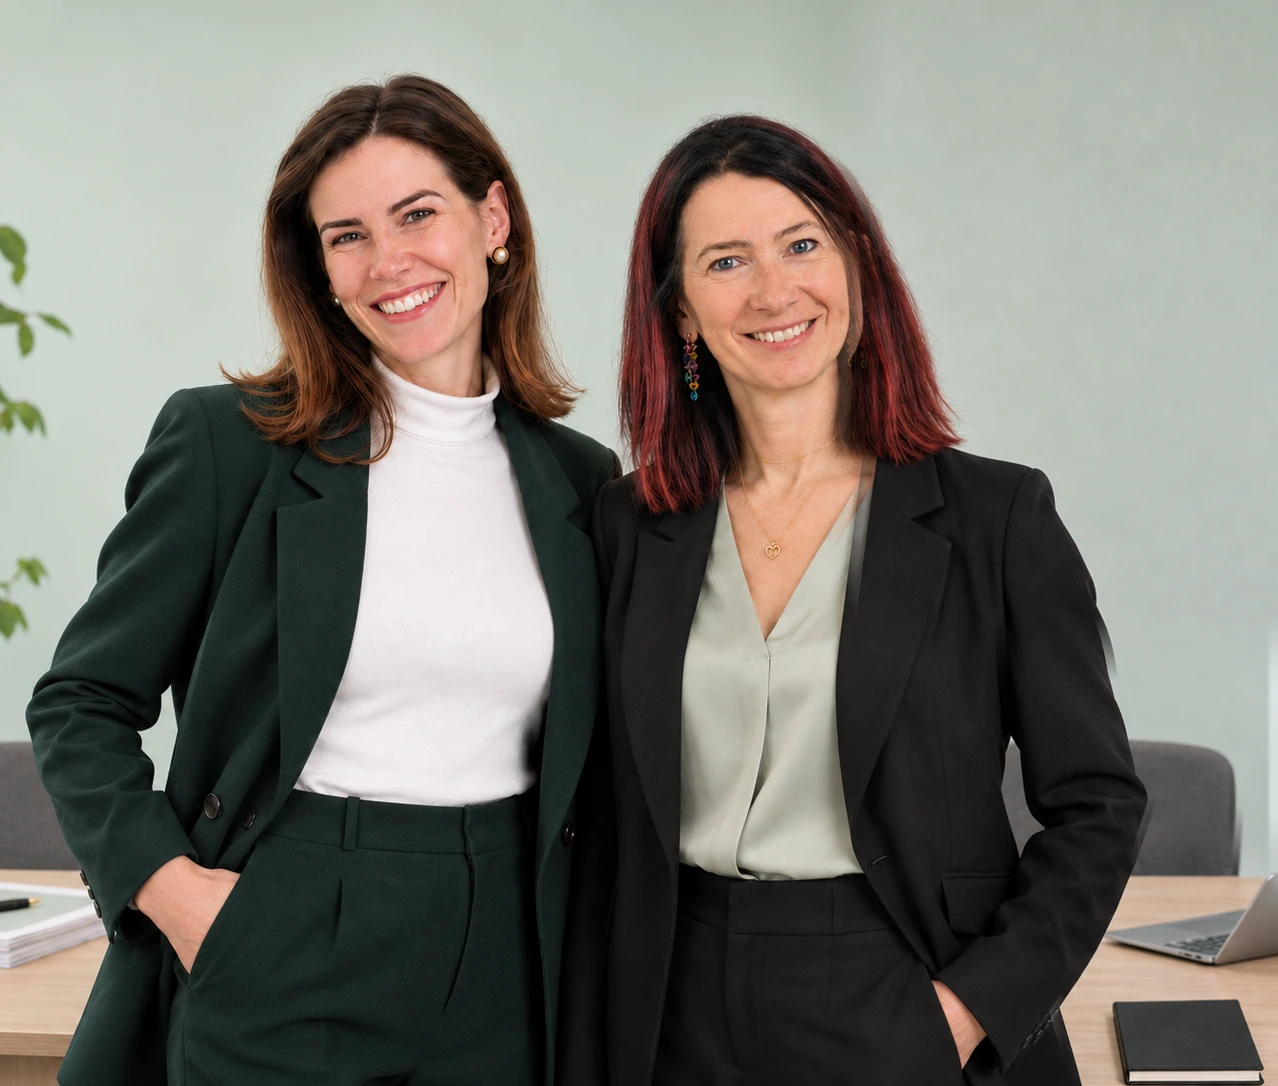
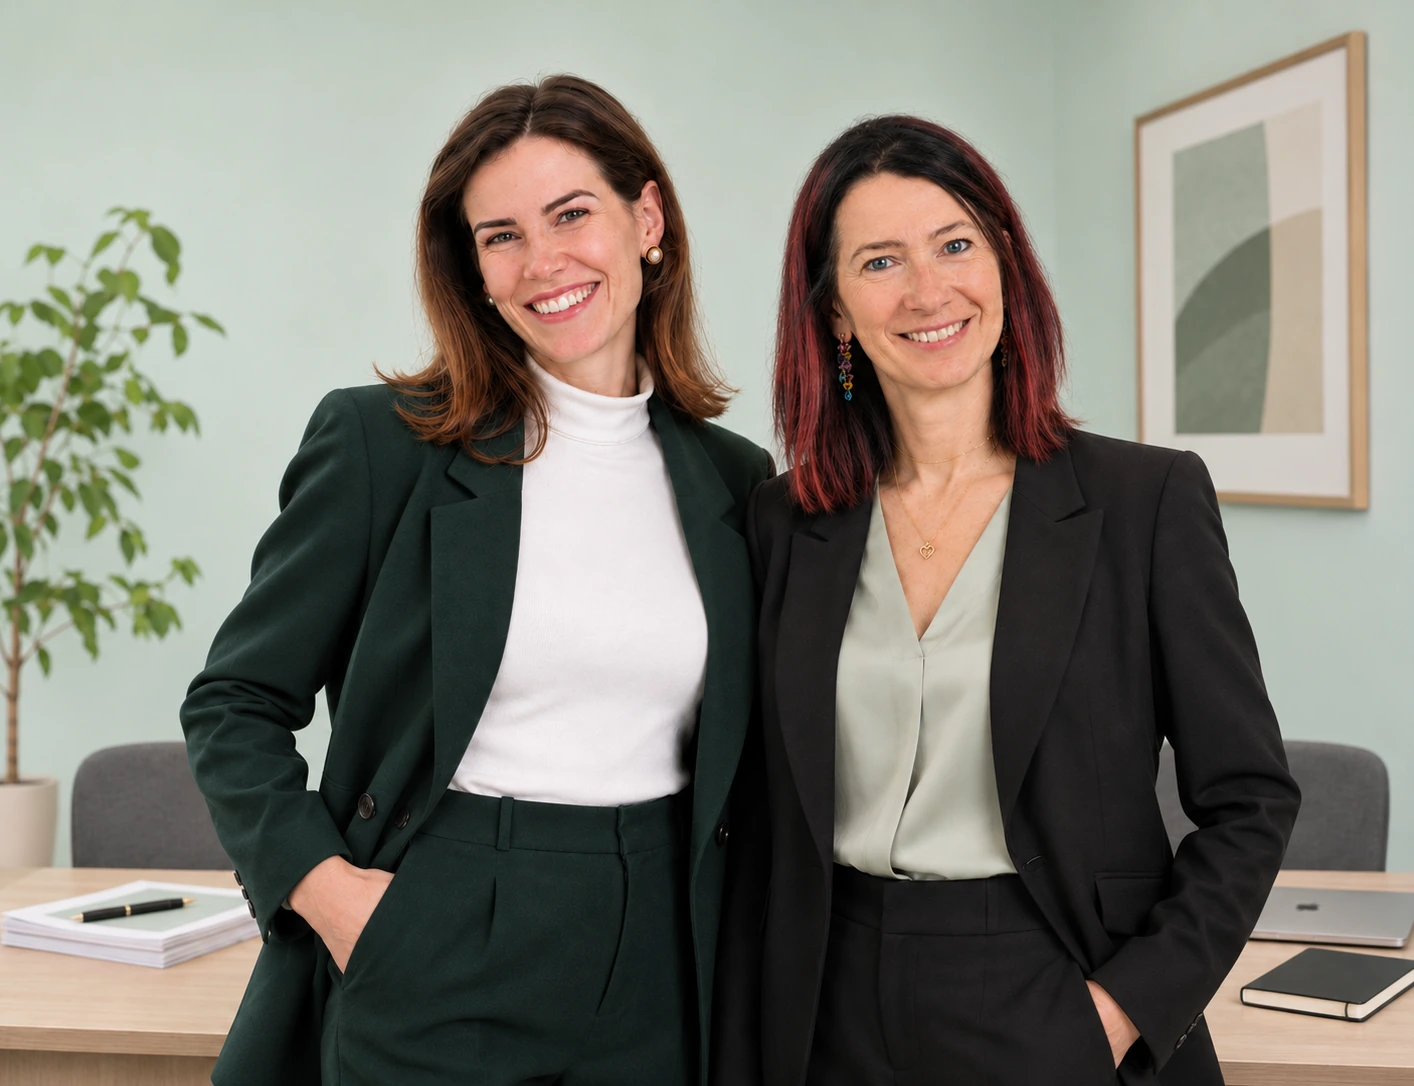
Changes

diff --git a/src/components/home-page.tsx b/src/components/home-page.tsx
@@ -355,7 +355,7 @@ export function HomePage({ lang }: { lang: Lang }) {
         className="overflow-hidden bg-band-surface text-band-foreground"
       >
         <div className="portrait-hero">
-          <img src={teamHeroUrl} alt={lang === "de" ? "Sarah Mogel und Audelia Babbev-Pittet von StartSaldo" : "Sarah Mogel and Audelia Babbev-Pittet of StartSaldo"} width={1278} height={1086} fetchPriority="high" decoding="async" className="portrait-hero-image" />
+          <img src={teamHeroUrl} alt={lang === "de" ? "Sarah Mogel und Audelia Babbev-Pittet von StartSaldo" : "Sarah Mogel and Audelia Babbev-Pittet of StartSaldo"} width={1414} height={1086} fetchPriority="high" decoding="async" className="portrait-hero-image" />
           <div className="section-shell portrait-hero-layout">
             <div className="portrait-hero-copy">
               <h1 className="hero-reveal hero-reveal-2 portrait-hero-heading">{t.h1a}<br/><span className="text-primary">{t.h1b}</span></h1>

diff --git a/src/styles.css b/src/styles.css
@@ -366,9 +366,9 @@
   }
   .portrait-hero-layout {
     min-height: 0;
-    /* The panel is 72vw wide, so about 61vw tall at the photo's own ratio
-       (1278x1086); the copy starts just below its bottom edge. */
-    padding-top: 65vw;
+    /* The panel is 72vw wide, so about 55vw tall at the photo's own ratio
+       (1414x1086); the copy starts just below its bottom edge. */
+    padding-top: 59vw;
     padding-bottom: 28px;
   }
   /* Copy is centred below the faces on every size under 1024px. */
